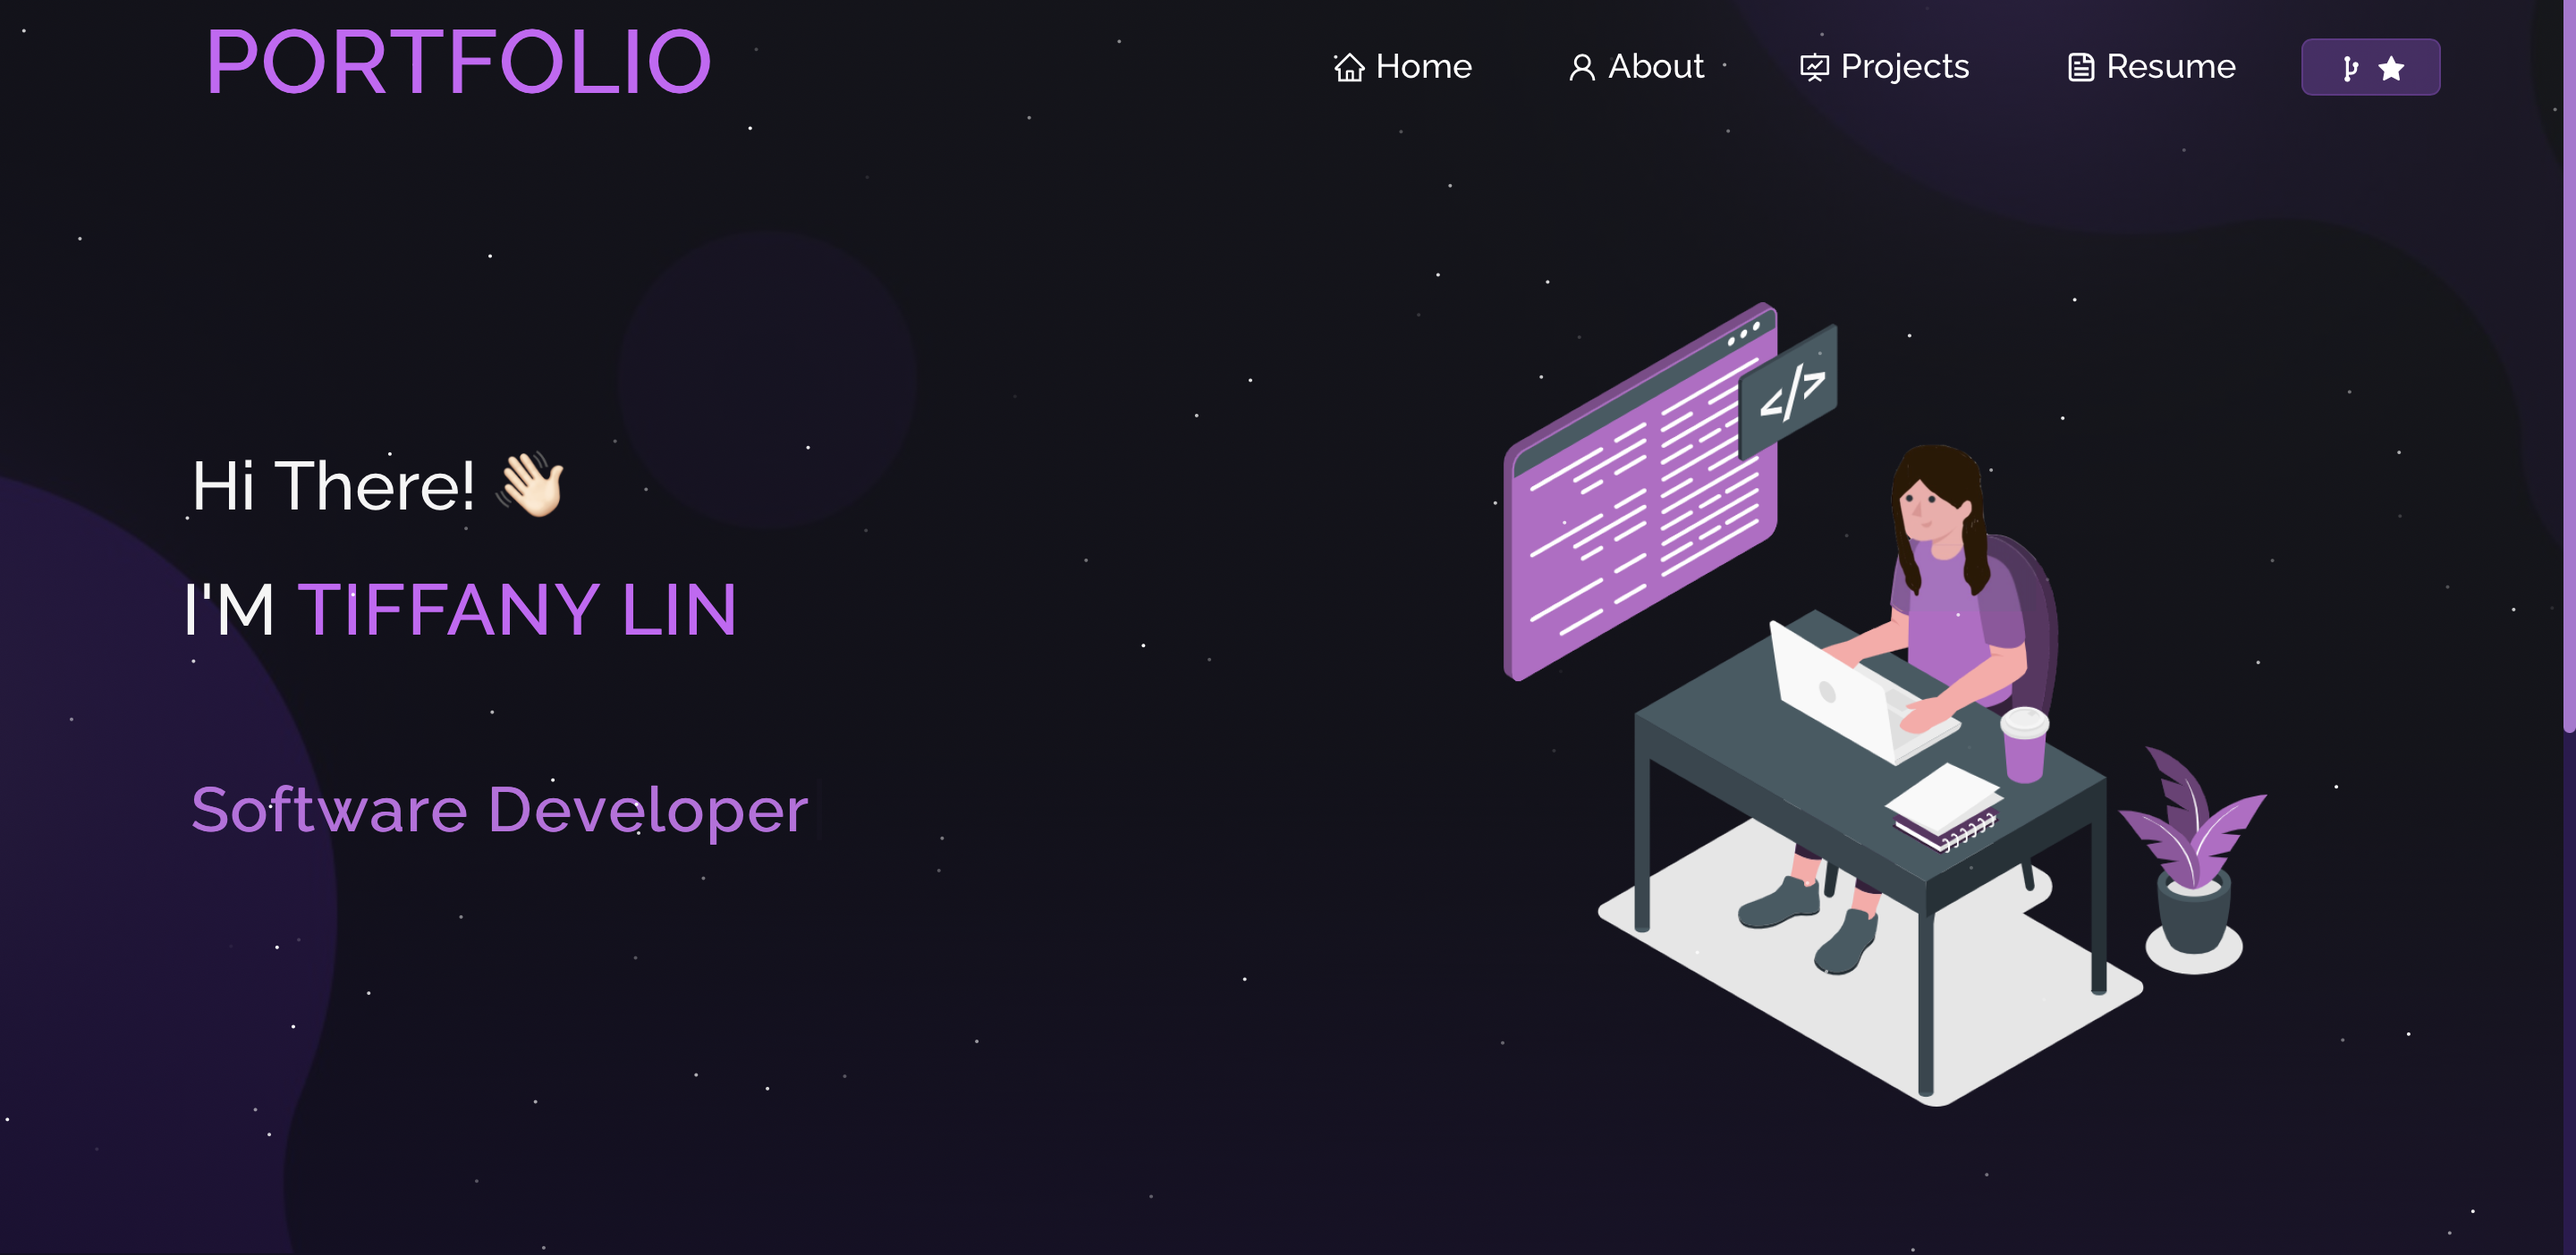
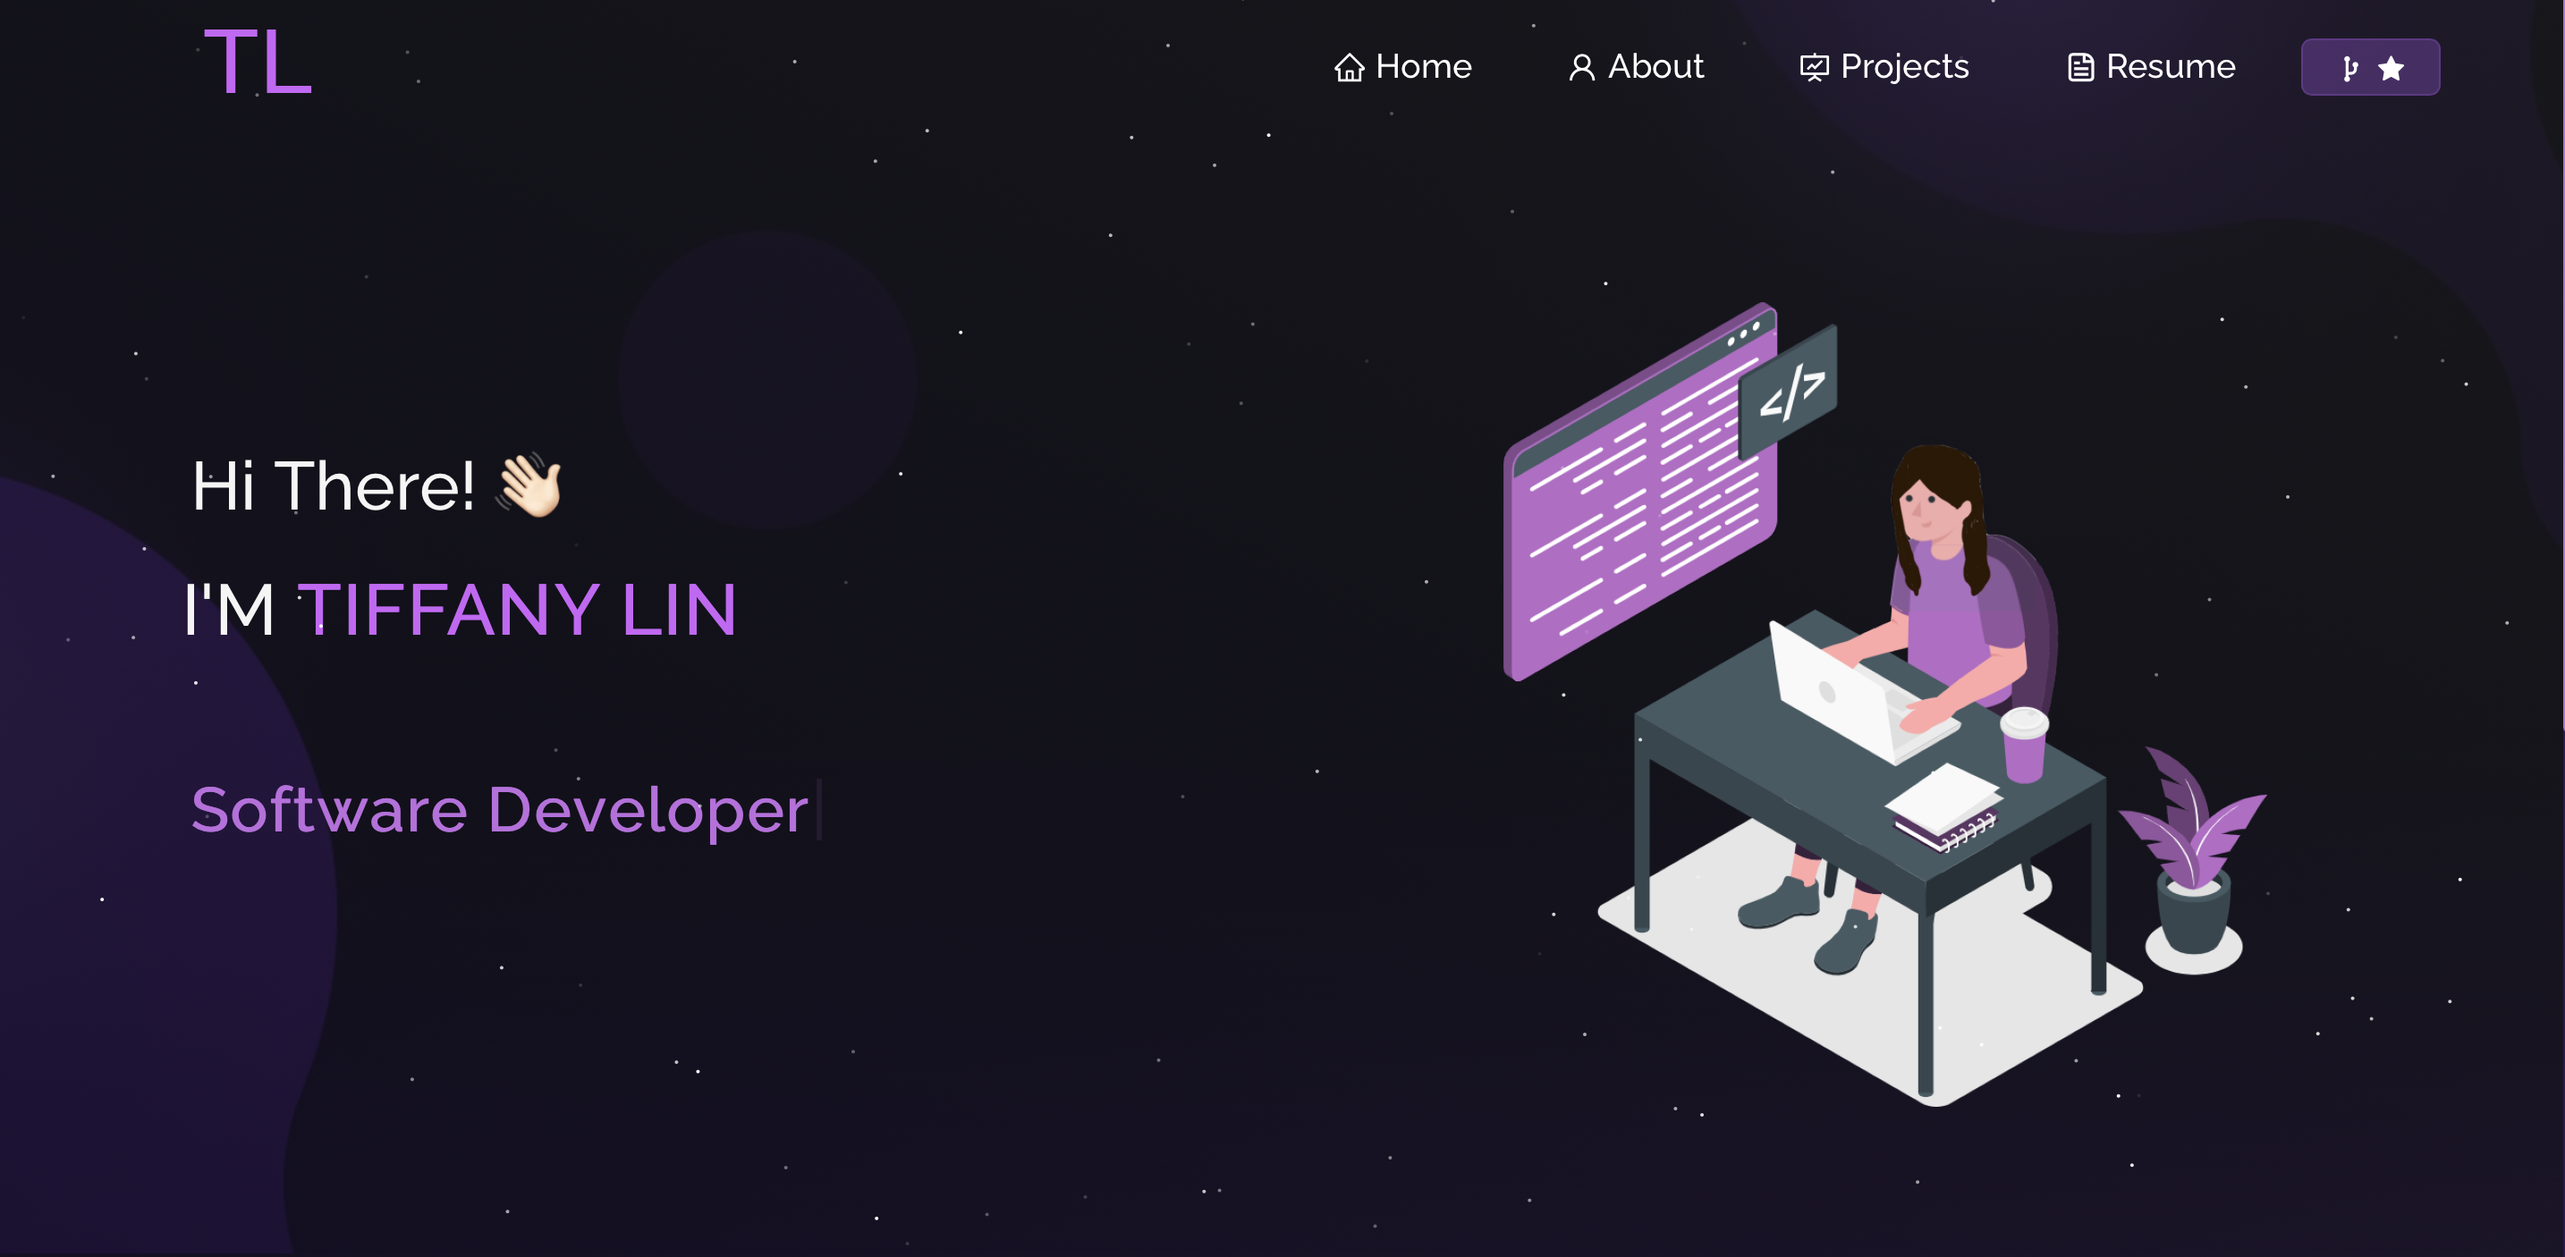
fix navbar title

diff --git a/src/components/Navbar.js b/src/components/Navbar.js
@@ -38,7 +38,7 @@ function NavBar() {
       <Container>
         <Navbar.Brand href="/" className="d-flex">
           <h1 className="heading-name">
-            <strong className="main-name">PORTFOLIO</strong>
+            <strong className="main-name">TL</strong>
           </h1>
         </Navbar.Brand>
         <Navbar.Toggle
